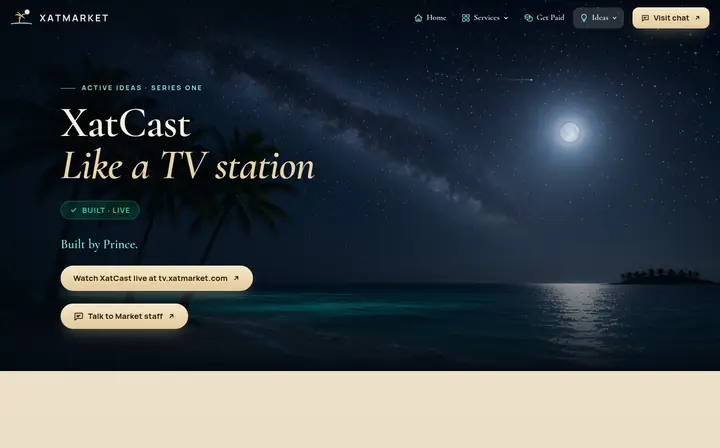
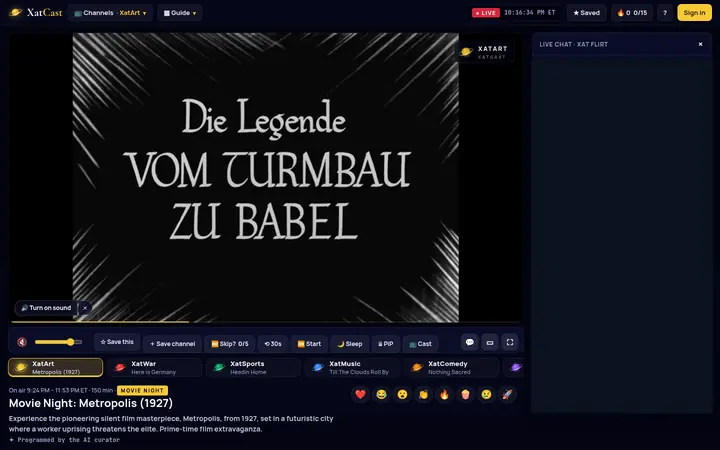
XatCast -> tv.xatmarket.com; fresh XatMarket/XatCast screenshots without chat content

diff --git a/index.html b/index.html
@@ -13,7 +13,7 @@
 <section id="projects"><div class="sec-h"><h2 class="sh">Projects</h2><p class="hint">Everything here is live unless marked private. Descriptions are factual; no metrics claimed.</p></div>
 <div class="note glass"><b>How I build:</b> I define each product, design it, and direct AI coding agents that write much of the code. I review, test, and ship. This is exactly why I want to study AI — to understand fundamentally the tools I already depend on.</div>
 <div class="filters" role="toolbar" aria-label="Filter projects"><button aria-pressed="true" data-f="all">All</button><button aria-pressed="false" data-f="Education">Education</button><button aria-pressed="false" data-f="Games">Games</button><button aria-pressed="false" data-f="Civic">Civic/Politics</button><button aria-pressed="false" data-f="Tools/AI">Tools/AI</button><button aria-pressed="false" data-f="Community">Community</button></div>
-<div class="grid"><article class="proj glass" data-cat="Games"><a class="shot" href="https://blesshalo.com" target="_blank" rel="noopener" tabindex="-1"><img src="assets/shots/blesshalo.webp" alt="Screenshot of BlessHalo" loading="lazy" width="720" height="450"></a><div class="pb"><div class="ph2"><h3>BlessHalo</h3><span class="tag">Games</span></div><p>Site for “UNSC : Bless — A Private Military Halo Company,” a Halo gaming clan: clan structure (Branch Lattice, Houses, Charter, Insignia, Roles &amp; Medals), competitive play (Pro-Am Series, Casual 8s), operations, a Cadet Track, a Field Manual and an archive.</p><ul class="stack"></ul><div class="links"><a class="btn" href="https://blesshalo.com" target="_blank" rel="noopener">Visit ↗</a></div></div></article><article class="proj glass" data-cat="Games"><a class="shot" href="https://scavengia.com" target="_blank" rel="noopener" tabindex="-1"><img src="assets/shots/scavengia.webp" alt="Screenshot of Scavengia" loading="lazy" width="720" height="450"></a><div class="pb"><div class="ph2"><h3>Scavengia</h3><span class="tag">Games</span></div><p>A location-based collecting game — “The whole Earth is the hunt.” Players tap Earth to land at their location and open caches of real items with images, lore and rarity. Uses NASA Earth Observatory imagery. Also packaged as an Android app (Capacitor).</p><ul class="stack"><li>TypeScript</li><li>Capacitor Android</li></ul><div class="links"><a class="btn" href="https://scavengia.com" target="_blank" rel="noopener">Visit ↗</a></div></div></article><article class="proj glass" data-cat="Community"><a class="shot" href="https://xatmarket.com" target="_blank" rel="noopener" tabindex="-1"><img src="assets/shots/xatmarket.webp" alt="Screenshot of XatMarket" loading="lazy" width="720" height="450"></a><div class="pb"><div class="ph2"><h3>XatMarket</h3><span class="tag">Community</span></div><p>“Services, Staff &amp; Ideas for Xat Communities.” A hub for the xat chat community that hosts XatMaps and XatCast.</p><ul class="stack"><li>JavaScript</li></ul><div class="links"><a class="btn" href="https://xatmarket.com" target="_blank" rel="noopener">Visit ↗</a></div></div></article><article class="proj glass" data-cat="Civic"><a class="shot" href="https://maps.xatmarket.com" target="_blank" rel="noopener" tabindex="-1"><img src="assets/shots/xatmaps.webp" alt="Screenshot of XatMaps · WarMap" loading="lazy" width="720" height="450"></a><div class="pb"><div class="ph2"><h3>XatMaps · WarMap</h3><span class="tag">Civic/Politics</span></div><p>Free, open-source live conflict maps — no accounts, no paywall, no tracking. A 3D night globe of UCDP GED events, GDELT events (labeled “auto-coded, unverified”), NASA FIRMS heat detections and attributed Wikipedia control maps, with a daily brief, RSS and embed mode. Every event shows its source and a confidence label.</p><ul class="stack"><li>3D globe</li><li>Open data</li></ul><div class="links"><a class="btn" href="https://maps.xatmarket.com" target="_blank" rel="noopener">Visit ↗</a></div></div></article><article class="proj glass" data-cat="Community"><a class="shot" href="https://xatmarket.com/ideas/xatcast/" target="_blank" rel="noopener" tabindex="-1"><img src="assets/shots/xatcast.webp" alt="Screenshot of XatCast" loading="lazy" width="720" height="450"></a><div class="pb"><div class="ph2"><h3>XatCast</h3><span class="tag">Community</span></div><p>A concept for always-on stations (XatArt, XatWar, XatSports, XatMusic) airing only public-domain and openly licensed works from the Met, the Art Institute of Chicago, Wikimedia Commons and the Internet Archive, with license and attribution recorded per item. A deterministic broadcast clock means every viewer sees the same item at the same second.</p><ul class="stack"><li>TypeScript</li><li>Concept page live</li></ul><div class="links"><a class="btn" href="https://xatmarket.com/ideas/xatcast/" target="_blank" rel="noopener">Visit ↗</a></div></div></article><article class="proj glass" data-cat="Civic"><a class="shot" href="https://recordoflaw.com" target="_blank" rel="noopener" tabindex="-1"><img src="assets/shots/recordoflaw.webp" alt="Screenshot of RecordOfLaw" loading="lazy" width="720" height="450"></a><div class="pb"><div class="ph2"><h3>RecordOfLaw</h3><span class="tag">Civic/Politics</span></div><p>“Who made the law, when, and how.” Offices, officeholders and legal changes — each dated, sourced and cross-linked. Phase 1 anchors on FDR and the New Deal; the build validates its data before it compiles.</p><ul class="stack"><li>Python pipeline</li><li>Vite + TS</li></ul><div class="links"><a class="btn" href="https://recordoflaw.com" target="_blank" rel="noopener">Visit ↗</a><a class="btn ghost" href="https://recordoflaw.com/midterms/" target="_blank" rel="noopener">2026 Midterm Tracker ↗</a></div></div></article><article class="proj glass" data-cat="Education"><a class="shot" href="https://leoneuniversity.org" target="_blank" rel="noopener" tabindex="-1"><img src="assets/shots/leone-university.webp" alt="Screenshot of Leone University" loading="lazy" width="720" height="450"></a><div class="pb"><div class="ph2"><h3>Leone University</h3><span class="tag">Education</span></div><p>The “Think Tank” site for idea records. Originally built on Base44 (an AI app builder), then rebuilt as a standalone Vite/React app deployed through GitHub Actions.</p><ul class="stack"><li>Vite</li><li>React</li></ul><div class="links"><a class="btn" href="https://leoneuniversity.org" target="_blank" rel="noopener">Visit ↗</a><a class="btn ghost" href="https://github.com/charlesanthonyleone/leone-university" target="_blank" rel="noopener">GitHub ↗</a></div></div></article><article class="proj glass" data-cat="Education"><a class="shot" href="https://library.leoneuniversity.org" target="_blank" rel="noopener" tabindex="-1"><img src="assets/shots/leone-library.webp" alt="Screenshot of Leone Library" loading="lazy" width="720" height="450"></a><div class="pb"><div class="ph2"><h3>Leone Library</h3><span class="tag">Education</span></div><p>“Read, translate, remix and publish public-domain classics.” Ingestion pipelines for Project Gutenberg and LibriVox feed its catalogue.</p><ul class="stack"><li>TypeScript</li></ul><div class="links"><a class="btn" href="https://library.leoneuniversity.org" target="_blank" rel="noopener">Visit ↗</a><a class="btn ghost" href="https://github.com/charlesanthonyleone/leonelibrary" target="_blank" rel="noopener">GitHub ↗</a></div></div></article><article class="proj glass" data-cat="Education"><a class="shot" href="https://inteloasis.com" target="_blank" rel="noopener" tabindex="-1"><img src="assets/shots/inteloasis.webp" alt="Screenshot of IntelOasis" loading="lazy" width="720" height="450"></a><div class="pb"><div class="ph2"><h3>IntelOasis</h3><span class="tag">Education</span></div><p>A library of ideas, books, software, clubs and traditions. “Every problem has a thousand solutions…”</p><ul class="stack"><li>React</li><li>Vite</li><li>Tailwind</li></ul><div class="links"><a class="btn" href="https://inteloasis.com" target="_blank" rel="noopener">Visit ↗</a><a class="btn ghost" href="https://github.com/charlesanthonyleone/intel-oasis" target="_blank" rel="noopener">GitHub ↗</a></div></div></article><article class="proj glass" data-cat="Community"><a class="shot" href="https://charlesanthonyleone.github.io/leoneguard-stats/" target="_blank" rel="noopener" tabindex="-1"><img src="assets/shots/leoneguard-stats.webp" alt="Screenshot of LeoneGuard" loading="lazy" width="720" height="450"></a><div class="pb"><div class="ph2"><h3>LeoneGuard</h3><span class="tag">Community</span></div><p>A moderation bot for xat chats. Its core, DramaScreen, is a low-cost harassment detector designed to ignore venting and banter and act on targeted personal attacks. The public stats page shows aggregate counts only — no names, IDs or message text.</p><ul class="stack"><li>TypeScript</li><li>Docker</li><li>Postgres</li><li>Redis</li><li>Local LLM</li></ul><div class="links"><a class="btn" href="https://charlesanthonyleone.github.io/leoneguard-stats/" target="_blank" rel="noopener">Visit ↗</a><a class="btn ghost" href="https://charlesanthonyleone.github.io/leoneguard-stats/" target="_blank" rel="noopener">Public stats ↗</a></div></div></article><article class="proj glass" data-cat="Tools/AI"><a class="shot" href="https://charlesanthonyleone.github.io/tapback/" target="_blank" rel="noopener" tabindex="-1"><img src="assets/shots/tapback.webp" alt="Screenshot of Tapback" loading="lazy" width="720" height="450"></a><div class="pb"><div class="ph2"><h3>Tapback</h3><span class="tag">Tools/AI</span></div><p>Marketing site: “your tap gets a comeback.” Static multi-page site with a Python build.</p><ul class="stack"><li>Static</li><li>Python build</li></ul><div class="links"><a class="btn" href="https://charlesanthonyleone.github.io/tapback/" target="_blank" rel="noopener">Visit ↗</a></div></div></article><article class="proj glass" data-cat="Tools/AI"><a class="shot" href="https://charlesanthonyleone.github.io/remote-robotics/" target="_blank" rel="noopener" tabindex="-1"><img src="assets/shots/remote-robotics.webp" alt="Screenshot of Remote Robotics" loading="lazy" width="720" height="450"></a><div class="pb"><div class="ph2"><h3>Remote Robotics</h3><span class="tag">Tools/AI</span></div><p>Concept site for human-supervised robotics R&amp;D.</p><ul class="stack"><li>Static</li></ul><div class="links"><a class="btn" href="https://charlesanthonyleone.github.io/remote-robotics/" target="_blank" rel="noopener">Visit ↗</a></div></div></article><article class="proj glass" data-cat="Community"><a class="shot" href="https://lowdro.com" target="_blank" rel="noopener" tabindex="-1"><img src="assets/shots/lowdro.webp" alt="Screenshot of LowDro" loading="lazy" width="720" height="450"></a><div class="pb"><div class="ph2"><h3>LowDro</h3><span class="tag">Community</span></div><p>A members-only, no-markup club for adults 21+. Its rules for joining center on moderation: it operates only in states where its hemp-derived THCA products are legal, and uses those legal systems to help members manage their consumption rates. Visitors pass a 21+ age gate.</p><ul class="stack"><li>Vite SPA</li><li>21+ age-gated</li></ul><div class="links"><a class="btn" href="https://lowdro.com" target="_blank" rel="noopener">Visit ↗</a></div></div></article><article class="proj glass" data-cat="Games"><div class="shot ph"><span>Private · no public page</span></div><div class="pb"><div class="ph2"><h3>WoW AzerothCore server + xat in-game UI</h3><span class="tag">Games</span></div><p>A World of Warcraft 3.3.5 private server on AzerothCore, with a custom FrameXML Lua UI and native DLL proxy hooks (d3d9, dinput8, MinHook) that bring xat chat into the game client. The server also runs a local Qwen2.5-3B model. In progress.</p><ul class="stack"><li>C/C++</li><li>Lua</li><li>MySQL</li><li>Local LLM</li></ul><div class="links"></div></div></article></div></section>
+<div class="grid"><article class="proj glass" data-cat="Games"><a class="shot" href="https://blesshalo.com" target="_blank" rel="noopener" tabindex="-1"><img src="assets/shots/blesshalo.webp" alt="Screenshot of BlessHalo" loading="lazy" width="720" height="450"></a><div class="pb"><div class="ph2"><h3>BlessHalo</h3><span class="tag">Games</span></div><p>Site for “UNSC : Bless — A Private Military Halo Company,” a Halo gaming clan: clan structure (Branch Lattice, Houses, Charter, Insignia, Roles &amp; Medals), competitive play (Pro-Am Series, Casual 8s), operations, a Cadet Track, a Field Manual and an archive.</p><ul class="stack"></ul><div class="links"><a class="btn" href="https://blesshalo.com" target="_blank" rel="noopener">Visit ↗</a></div></div></article><article class="proj glass" data-cat="Games"><a class="shot" href="https://scavengia.com" target="_blank" rel="noopener" tabindex="-1"><img src="assets/shots/scavengia.webp" alt="Screenshot of Scavengia" loading="lazy" width="720" height="450"></a><div class="pb"><div class="ph2"><h3>Scavengia</h3><span class="tag">Games</span></div><p>A location-based collecting game — “The whole Earth is the hunt.” Players tap Earth to land at their location and open caches of real items with images, lore and rarity. Uses NASA Earth Observatory imagery. Also packaged as an Android app (Capacitor).</p><ul class="stack"><li>TypeScript</li><li>Capacitor Android</li></ul><div class="links"><a class="btn" href="https://scavengia.com" target="_blank" rel="noopener">Visit ↗</a></div></div></article><article class="proj glass" data-cat="Community"><a class="shot" href="https://xatmarket.com" target="_blank" rel="noopener" tabindex="-1"><img src="assets/shots/xatmarket.webp" alt="Screenshot of XatMarket" loading="lazy" width="720" height="450"></a><div class="pb"><div class="ph2"><h3>XatMarket</h3><span class="tag">Community</span></div><p>“Services, Staff &amp; Ideas for Xat Communities.” A hub for the xat chat community that hosts XatMaps and XatCast.</p><ul class="stack"><li>JavaScript</li></ul><div class="links"><a class="btn" href="https://xatmarket.com" target="_blank" rel="noopener">Visit ↗</a></div></div></article><article class="proj glass" data-cat="Civic"><a class="shot" href="https://maps.xatmarket.com" target="_blank" rel="noopener" tabindex="-1"><img src="assets/shots/xatmaps.webp" alt="Screenshot of XatMaps · WarMap" loading="lazy" width="720" height="450"></a><div class="pb"><div class="ph2"><h3>XatMaps · WarMap</h3><span class="tag">Civic/Politics</span></div><p>Free, open-source live conflict maps — no accounts, no paywall, no tracking. A 3D night globe of UCDP GED events, GDELT events (labeled “auto-coded, unverified”), NASA FIRMS heat detections and attributed Wikipedia control maps, with a daily brief, RSS and embed mode. Every event shows its source and a confidence label.</p><ul class="stack"><li>3D globe</li><li>Open data</li></ul><div class="links"><a class="btn" href="https://maps.xatmarket.com" target="_blank" rel="noopener">Visit ↗</a></div></div></article><article class="proj glass" data-cat="Community"><a class="shot" href="https://tv.xatmarket.com" target="_blank" rel="noopener" tabindex="-1"><img src="assets/shots/xatcast.webp" alt="Screenshot of XatCast" loading="lazy" width="720" height="450"></a><div class="pb"><div class="ph2"><h3>XatCast</h3><span class="tag">Community</span></div><p>A concept for always-on stations (XatArt, XatWar, XatSports, XatMusic) airing only public-domain and openly licensed works from the Met, the Art Institute of Chicago, Wikimedia Commons and the Internet Archive, with license and attribution recorded per item. A deterministic broadcast clock means every viewer sees the same item at the same second.</p><ul class="stack"><li>TypeScript</li><li>Live</li></ul><div class="links"><a class="btn" href="https://tv.xatmarket.com" target="_blank" rel="noopener">Visit ↗</a></div></div></article><article class="proj glass" data-cat="Civic"><a class="shot" href="https://recordoflaw.com" target="_blank" rel="noopener" tabindex="-1"><img src="assets/shots/recordoflaw.webp" alt="Screenshot of RecordOfLaw" loading="lazy" width="720" height="450"></a><div class="pb"><div class="ph2"><h3>RecordOfLaw</h3><span class="tag">Civic/Politics</span></div><p>“Who made the law, when, and how.” Offices, officeholders and legal changes — each dated, sourced and cross-linked. Phase 1 anchors on FDR and the New Deal; the build validates its data before it compiles.</p><ul class="stack"><li>Python pipeline</li><li>Vite + TS</li></ul><div class="links"><a class="btn" href="https://recordoflaw.com" target="_blank" rel="noopener">Visit ↗</a><a class="btn ghost" href="https://recordoflaw.com/midterms/" target="_blank" rel="noopener">2026 Midterm Tracker ↗</a></div></div></article><article class="proj glass" data-cat="Education"><a class="shot" href="https://leoneuniversity.org" target="_blank" rel="noopener" tabindex="-1"><img src="assets/shots/leone-university.webp" alt="Screenshot of Leone University" loading="lazy" width="720" height="450"></a><div class="pb"><div class="ph2"><h3>Leone University</h3><span class="tag">Education</span></div><p>The “Think Tank” site for idea records. Originally built on Base44 (an AI app builder), then rebuilt as a standalone Vite/React app deployed through GitHub Actions.</p><ul class="stack"><li>Vite</li><li>React</li></ul><div class="links"><a class="btn" href="https://leoneuniversity.org" target="_blank" rel="noopener">Visit ↗</a><a class="btn ghost" href="https://github.com/charlesanthonyleone/leone-university" target="_blank" rel="noopener">GitHub ↗</a></div></div></article><article class="proj glass" data-cat="Education"><a class="shot" href="https://library.leoneuniversity.org" target="_blank" rel="noopener" tabindex="-1"><img src="assets/shots/leone-library.webp" alt="Screenshot of Leone Library" loading="lazy" width="720" height="450"></a><div class="pb"><div class="ph2"><h3>Leone Library</h3><span class="tag">Education</span></div><p>“Read, translate, remix and publish public-domain classics.” Ingestion pipelines for Project Gutenberg and LibriVox feed its catalogue.</p><ul class="stack"><li>TypeScript</li></ul><div class="links"><a class="btn" href="https://library.leoneuniversity.org" target="_blank" rel="noopener">Visit ↗</a><a class="btn ghost" href="https://github.com/charlesanthonyleone/leonelibrary" target="_blank" rel="noopener">GitHub ↗</a></div></div></article><article class="proj glass" data-cat="Education"><a class="shot" href="https://inteloasis.com" target="_blank" rel="noopener" tabindex="-1"><img src="assets/shots/inteloasis.webp" alt="Screenshot of IntelOasis" loading="lazy" width="720" height="450"></a><div class="pb"><div class="ph2"><h3>IntelOasis</h3><span class="tag">Education</span></div><p>A library of ideas, books, software, clubs and traditions. “Every problem has a thousand solutions…”</p><ul class="stack"><li>React</li><li>Vite</li><li>Tailwind</li></ul><div class="links"><a class="btn" href="https://inteloasis.com" target="_blank" rel="noopener">Visit ↗</a><a class="btn ghost" href="https://github.com/charlesanthonyleone/intel-oasis" target="_blank" rel="noopener">GitHub ↗</a></div></div></article><article class="proj glass" data-cat="Community"><a class="shot" href="https://charlesanthonyleone.github.io/leoneguard-stats/" target="_blank" rel="noopener" tabindex="-1"><img src="assets/shots/leoneguard-stats.webp" alt="Screenshot of LeoneGuard" loading="lazy" width="720" height="450"></a><div class="pb"><div class="ph2"><h3>LeoneGuard</h3><span class="tag">Community</span></div><p>A moderation bot for xat chats. Its core, DramaScreen, is a low-cost harassment detector designed to ignore venting and banter and act on targeted personal attacks. The public stats page shows aggregate counts only — no names, IDs or message text.</p><ul class="stack"><li>TypeScript</li><li>Docker</li><li>Postgres</li><li>Redis</li><li>Local LLM</li></ul><div class="links"><a class="btn" href="https://charlesanthonyleone.github.io/leoneguard-stats/" target="_blank" rel="noopener">Visit ↗</a><a class="btn ghost" href="https://charlesanthonyleone.github.io/leoneguard-stats/" target="_blank" rel="noopener">Public stats ↗</a></div></div></article><article class="proj glass" data-cat="Tools/AI"><a class="shot" href="https://charlesanthonyleone.github.io/tapback/" target="_blank" rel="noopener" tabindex="-1"><img src="assets/shots/tapback.webp" alt="Screenshot of Tapback" loading="lazy" width="720" height="450"></a><div class="pb"><div class="ph2"><h3>Tapback</h3><span class="tag">Tools/AI</span></div><p>Marketing site: “your tap gets a comeback.” Static multi-page site with a Python build.</p><ul class="stack"><li>Static</li><li>Python build</li></ul><div class="links"><a class="btn" href="https://charlesanthonyleone.github.io/tapback/" target="_blank" rel="noopener">Visit ↗</a></div></div></article><article class="proj glass" data-cat="Tools/AI"><a class="shot" href="https://charlesanthonyleone.github.io/remote-robotics/" target="_blank" rel="noopener" tabindex="-1"><img src="assets/shots/remote-robotics.webp" alt="Screenshot of Remote Robotics" loading="lazy" width="720" height="450"></a><div class="pb"><div class="ph2"><h3>Remote Robotics</h3><span class="tag">Tools/AI</span></div><p>Concept site for human-supervised robotics R&amp;D.</p><ul class="stack"><li>Static</li></ul><div class="links"><a class="btn" href="https://charlesanthonyleone.github.io/remote-robotics/" target="_blank" rel="noopener">Visit ↗</a></div></div></article><article class="proj glass" data-cat="Community"><a class="shot" href="https://lowdro.com" target="_blank" rel="noopener" tabindex="-1"><img src="assets/shots/lowdro.webp" alt="Screenshot of LowDro" loading="lazy" width="720" height="450"></a><div class="pb"><div class="ph2"><h3>LowDro</h3><span class="tag">Community</span></div><p>A members-only, no-markup club for adults 21+. Its rules for joining center on moderation: it operates only in states where its hemp-derived THCA products are legal, and uses those legal systems to help members manage their consumption rates. Visitors pass a 21+ age gate.</p><ul class="stack"><li>Vite SPA</li><li>21+ age-gated</li></ul><div class="links"><a class="btn" href="https://lowdro.com" target="_blank" rel="noopener">Visit ↗</a></div></div></article><article class="proj glass" data-cat="Games"><div class="shot ph"><span>Private · no public page</span></div><div class="pb"><div class="ph2"><h3>WoW AzerothCore server + xat in-game UI</h3><span class="tag">Games</span></div><p>A World of Warcraft 3.3.5 private server on AzerothCore, with a custom FrameXML Lua UI and native DLL proxy hooks (d3d9, dinput8, MinHook) that bring xat chat into the game client. The server also runs a local Qwen2.5-3B model. In progress.</p><ul class="stack"><li>C/C++</li><li>Lua</li><li>MySQL</li><li>Local LLM</li></ul><div class="links"></div></div></article></div></section>
 <footer class="foot"><p>© 2026 Charles Leone · <a href="https://github.com/charlesanthonyleone">github.com/charlesanthonyleone</a></p><p class="credit">Milky Way: <a href="https://www.eso.org/public/images/eso0932a/" rel="noopener">ESO/S. Brunier</a>, CC BY 4.0 · Moon: <a href="https://commons.wikimedia.org/wiki/File:FullMoon2010.jpg" rel="noopener">Gregory H. Revera</a>, CC BY-SA 3.0</p></footer></main>
 <div class="scene-set"><div id="scene-panel" class="scene-panel glass" role="dialog" aria-label="Scene settings" hidden><label><input type="checkbox" id="set-ocean"> Ocean animation</label><label><input type="checkbox" id="set-sky"> Star &amp; sky animation</label><p>Off shows a still frame. Defaults follow your system's reduced-motion setting.</p></div>
 <button id="gear" class="scene-gear glass" aria-expanded="false" aria-label="Scene settings" title="Scene settings"><svg viewBox="0 0 24 24" width="18" height="18" aria-hidden="true"><path fill="currentColor" d="M19.4 13a7.5 7.5 0 0 0 0-2l2-1.6-2-3.4-2.4 1a7 7 0 0 0-1.7-1L15 3.5h-4l-.4 2.5a7 7 0 0 0-1.7 1l-2.4-1-2 3.4L6.6 11a7.5 7.5 0 0 0 0 2l-2 1.6 2 3.4 2.4-1a7 7 0 0 0 1.7 1l.4 2.5h4l.4-2.5a7 7 0 0 0 1.7-1l2.4 1 2-3.4zM13 15.5a3.5 3.5 0 1 1 0-7 3.5 3.5 0 0 1 0 7z" transform="translate(-1 0)"/></svg></button></div>
